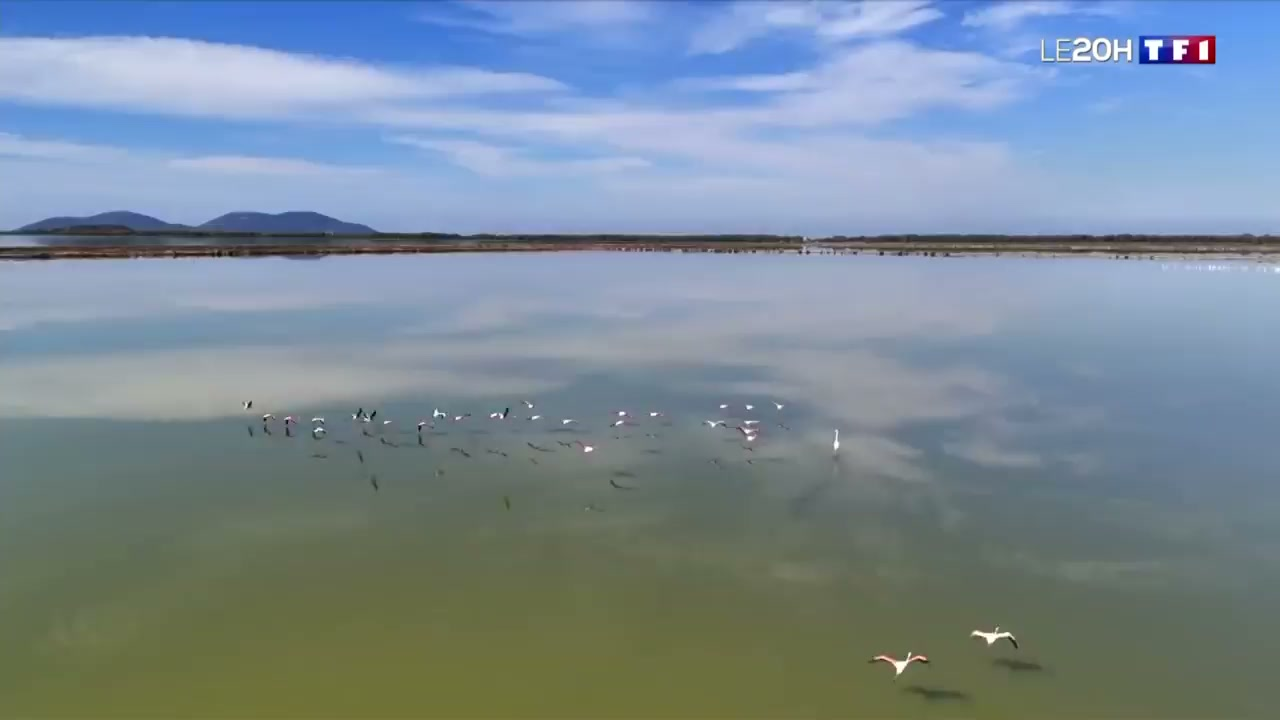
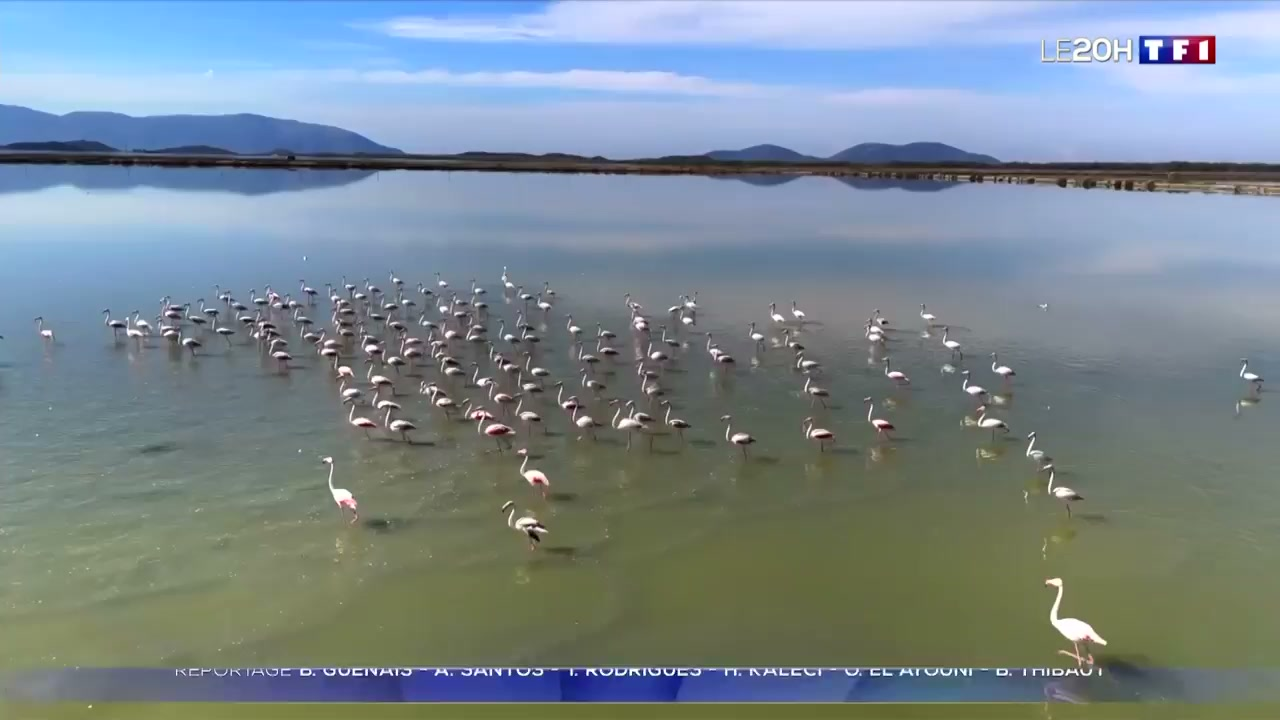
Remplace la galerie Albanie par les six captures choisies

diff --git a/app/data/content.js b/app/data/content.js
@@ -75,7 +75,10 @@ export const reportages = [
     "galerie": [
       "/photos/albanie-revolution-flamants-roses-1.jpg",
       "/photos/albanie-revolution-flamants-roses-2.jpg",
-      "/photos/albanie-revolution-flamants-roses-3.jpg"
+      "/photos/albanie-revolution-flamants-roses-3.jpg",
+      "/photos/albanie-revolution-flamants-roses-4.jpg",
+      "/photos/albanie-revolution-flamants-roses-5.jpg",
+      "/photos/albanie-revolution-flamants-roses-6.jpg"
     ],
     "resume": "En Albanie, les flamants roses sont devenus le symbole d’une contestation qui dure depuis fin mai 2026. À l’origine de la mobilisation : un vaste projet immobilier porté par Jared Kushner, gendre de Donald Trump, qui prévoit notamment la construction d’un complexe hôtelier dans une zone naturelle protégée où viennent se reproduire des flamants roses. Depuis, des manifestants se réunissent chaque soir dans la capitale albanaise de Tirana. Ils dénoncent notamment l’opacité entourant le projet et réclament une consultation publique. Nous sommes allés à leur rencontre pour comprendre les raisons de cette mobilisation et nous avons également réalisé un entretien avec le Premier Ministre Edi Rama, dans son bureau.",
     "chapeau": "En Albanie, rencontre avec les manifestants de la « révolution des flamants roses » et entretien avec le Premier ministre Edi Rama autour du projet immobilier de Jared Kushner.",
